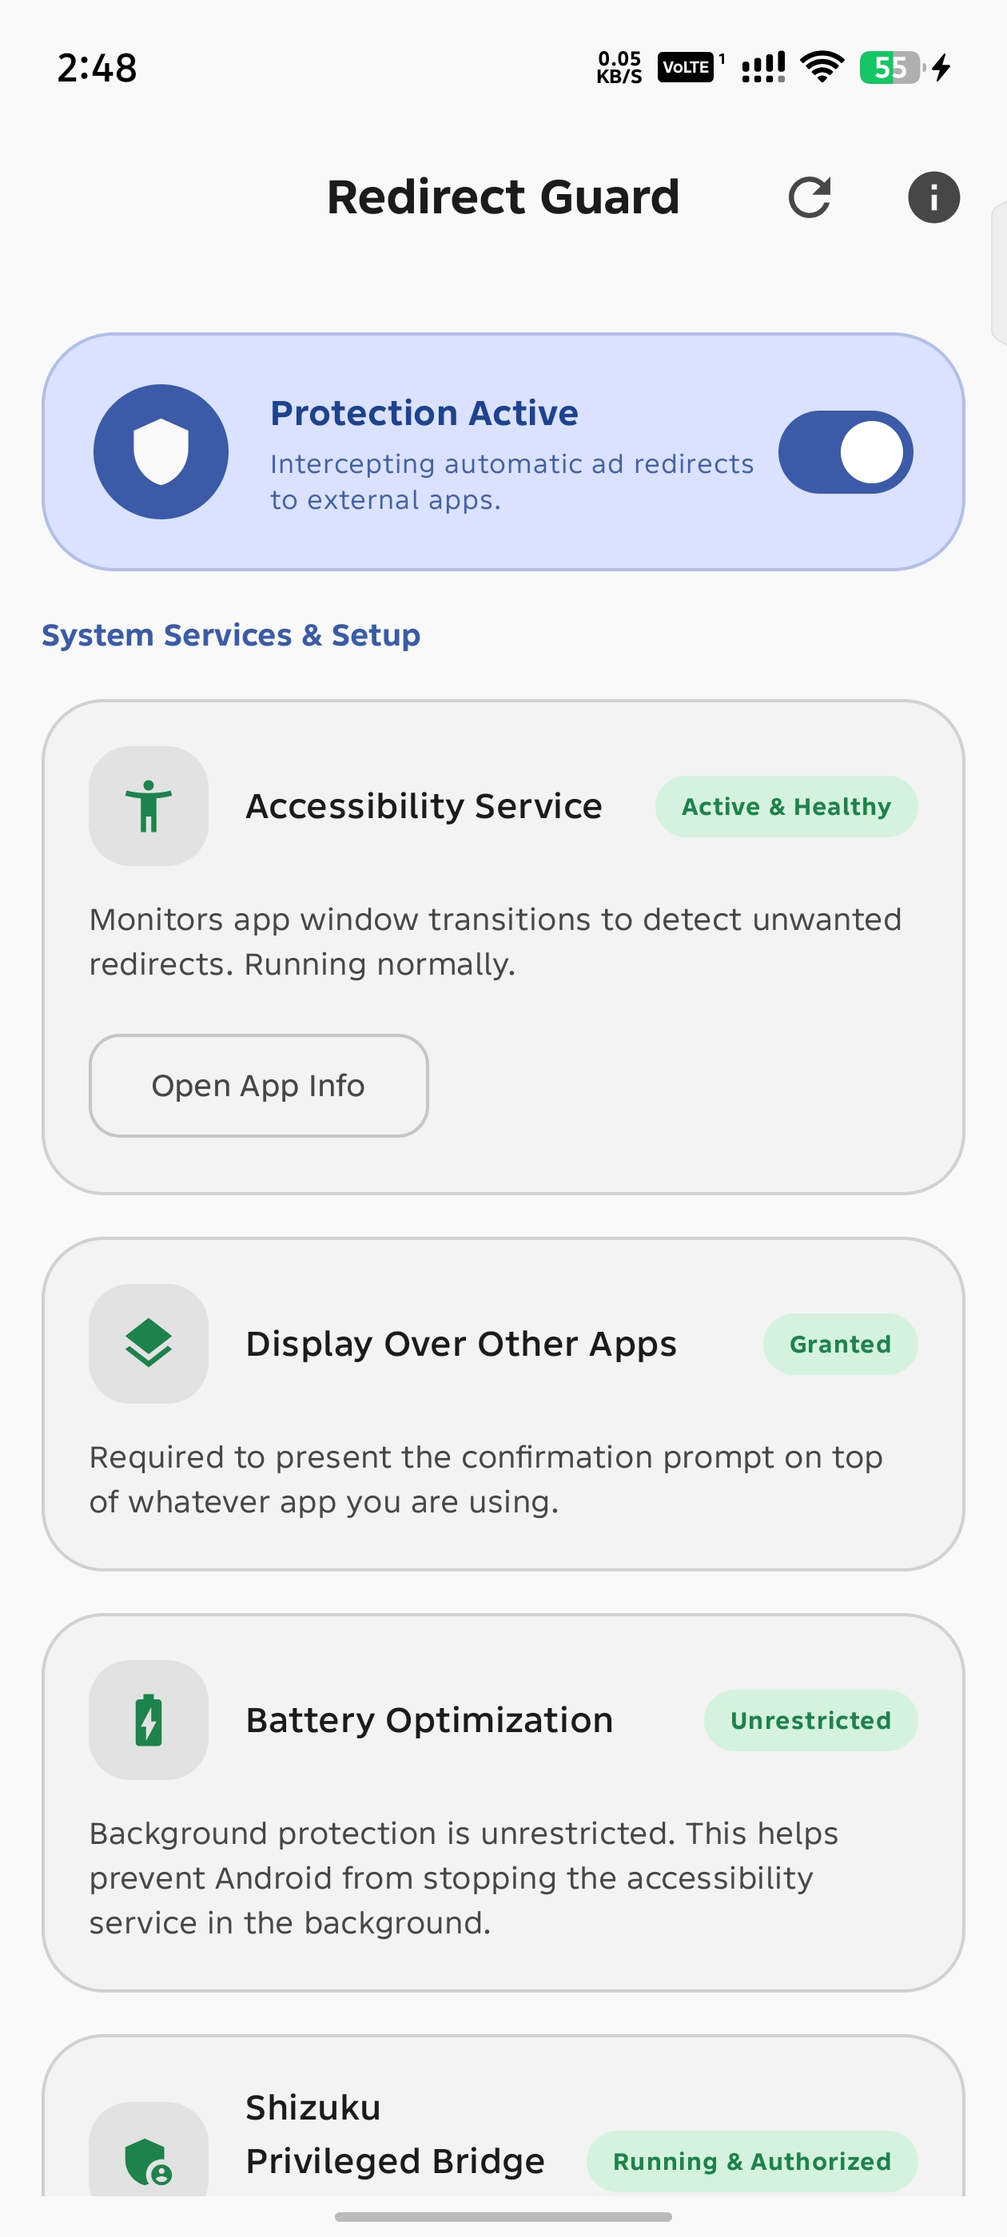
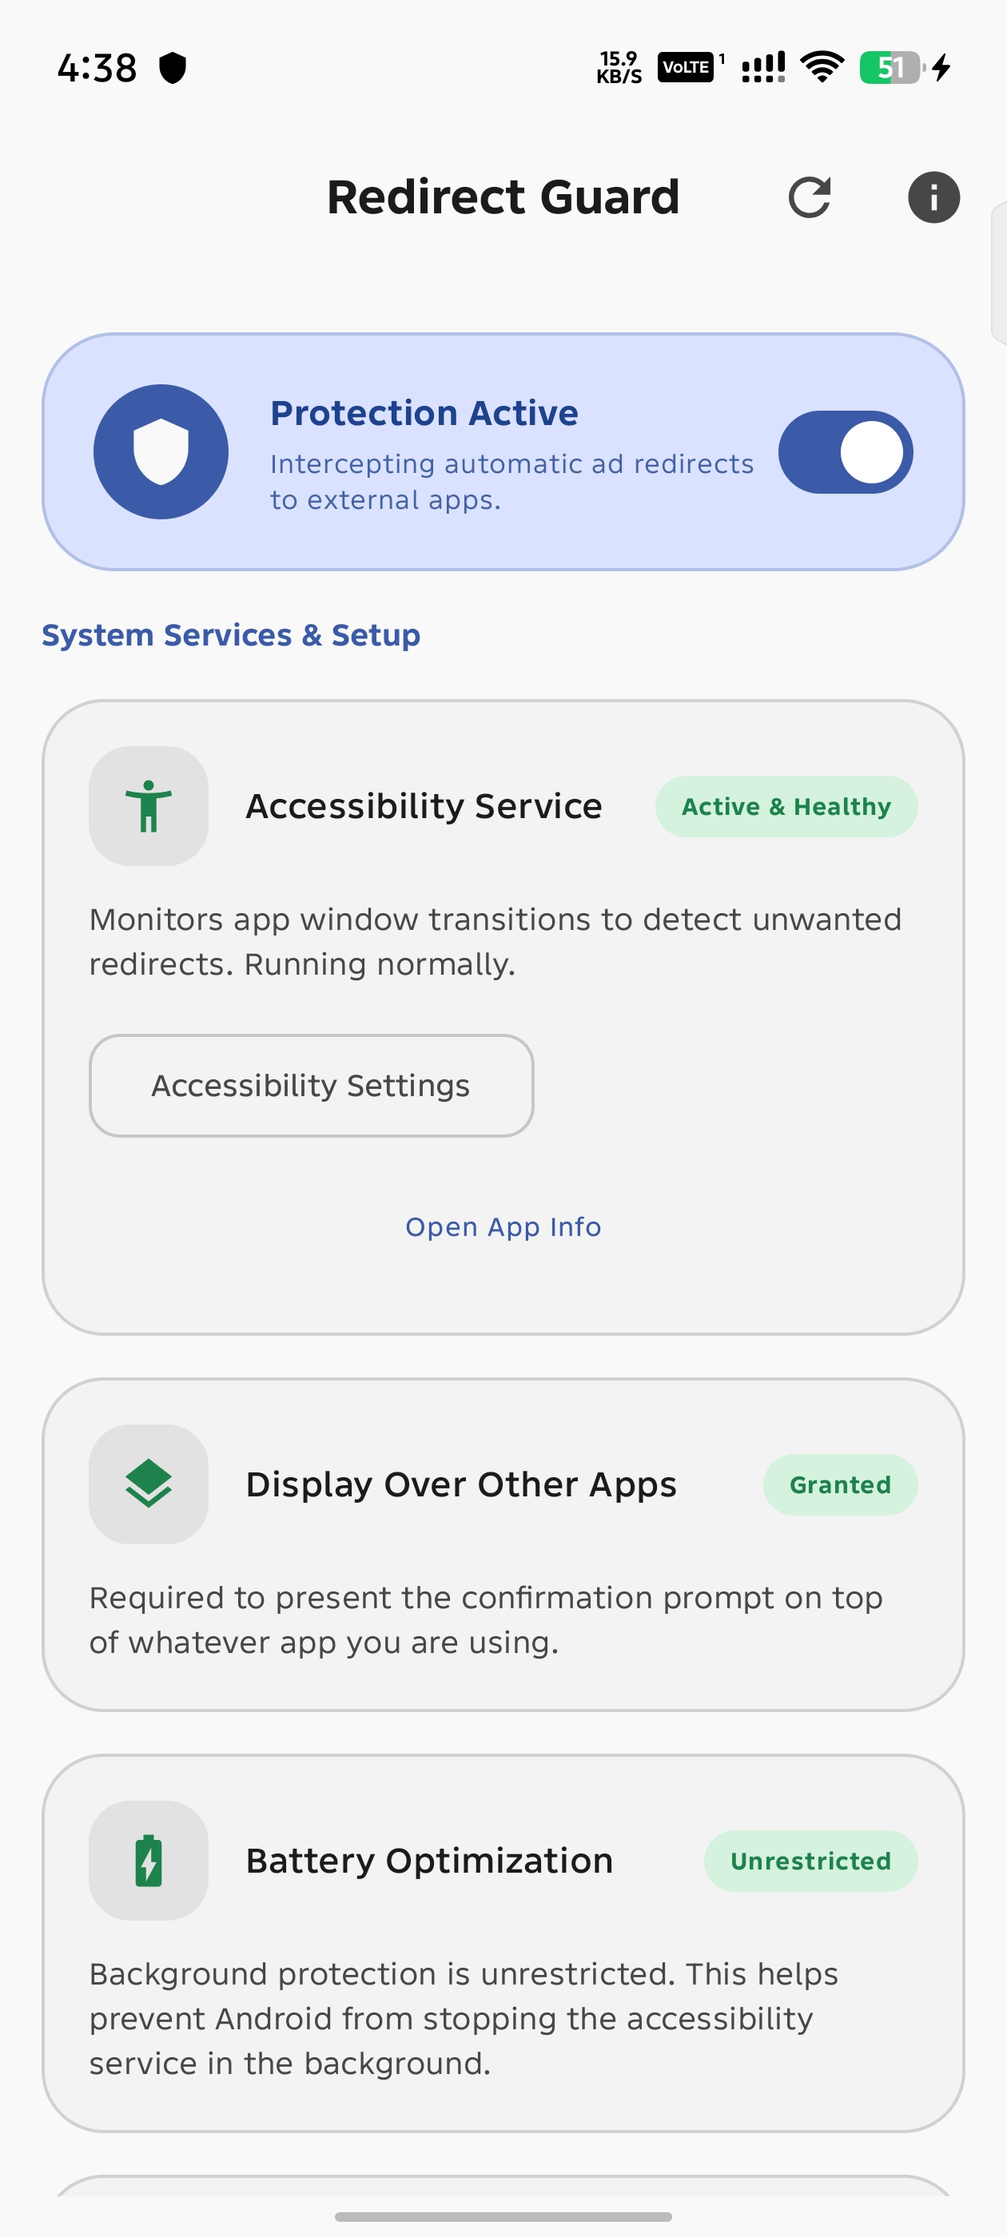
feat: add ability to permanently whitelist special apps and refine accessibility setup [skip ci]
- Add ability to permanently whitelist special apps to prevent interception, guarding, or termination
- Exclude permanently whitelisted applications from guarded app selection and background suppression
- Add manual Accessibility Settings shortcut across all accessibility service status states
- Update Killed / Desynced service card to recommend force stop before re-enabling
- Enhance Shizuku accessibility service enablement to cleanly re-bind desynced services
- Update documentation in README and RELEASE notes with accurate health checker descriptions

diff --git a/app/src/main/java/com/rdevzph/redirectguard/ui/MainScreen.kt b/app/src/main/java/com/rdevzph/redirectguard/ui/MainScreen.kt
@@ -263,8 +263,10 @@ fun MainScreen(
                             statusText = "Active & Healthy",
                             isSuccess = true,
                             description = "Monitors app window transitions to detect unwanted redirects. Running normally.",
-                            secondaryButtonText = "Open App Info",
-                            onSecondaryActionClick = { viewModel.openAppInfoSettings() }
+                            secondaryButtonText = "Accessibility Settings",
+                            onSecondaryActionClick = { viewModel.openAccessibilitySettings() },
+                            tertiaryButtonText = "Open App Info",
+                            onTertiaryActionClick = { viewModel.openAppInfoSettings() }
                         )
                     }
                     AccessibilityHealthState.KILLED_DESYNCED -> {
@@ -275,29 +277,29 @@ fun MainScreen(
                             isSuccess = false,
                             statusBgOverride = StatusInactiveContainer,
                             statusFgOverride = StatusInactive,
-                            description = "Android cached a dead service state after killing the process. Toggling settings alone will not restart it. Use Force Stop via Shizuku or App Info to purge the cache and restore the service.",
-                            actionButtonText = if (hasShizukuPrivilege) "Force Stop & Recover (Shizuku)" else "Open App Info (Force Stop)",
+                            description = "Android stopped the background service process while the setting remained enabled. Force stop the app first to clear the stuck state, then re-open the app and use 1-Tap Enable or Accessibility Settings.",
+                            actionButtonText = if (hasShizukuPrivilege) "Force Stop App (Shizuku)" else "Open App Info (Force Stop)",
                             onActionClick = {
                                 if (hasShizukuPrivilege) {
-                                    viewModel.recoverAccessibilityViaShizuku()
+                                    viewModel.forceStopAppViaShizuku()
                                 } else {
                                     viewModel.openAppInfoSettings()
                                 }
                             },
-                            secondaryButtonText = if (hasShizukuPrivilege) "Open App Info" else "Accessibility Settings",
+                            secondaryButtonText = if (hasShizukuPrivilege) "1-Tap Enable (Shizuku)" else "Accessibility Settings",
                             onSecondaryActionClick = {
                                 if (hasShizukuPrivilege) {
-                                    viewModel.openAppInfoSettings()
+                                    viewModel.enableAccessibilityViaShizuku()
                                 } else {
                                     viewModel.openAccessibilitySettings()
                                 }
                             },
-                            tertiaryButtonText = if (hasShizukuPrivilege) "Force Stop App (Shizuku)" else if (isShizukuRunning) "Authorize Shizuku for Force Stop Recovery" else null,
+                            tertiaryButtonText = if (hasShizukuPrivilege) "Accessibility Settings" else "Open App Info",
                             onTertiaryActionClick = {
                                 if (hasShizukuPrivilege) {
-                                    viewModel.forceStopAppViaShizuku()
-                                } else if (isShizukuRunning) {
-                                    viewModel.requestShizukuPermission()
+                                    viewModel.openAccessibilitySettings()
+                                } else {
+                                    viewModel.openAppInfoSettings()
                                 }
                             }
                         )
@@ -317,8 +319,16 @@ fun MainScreen(
                                     viewModel.openAccessibilitySettings()
                                 }
                             },
-                            secondaryButtonText = "Open App Info",
-                            onSecondaryActionClick = { viewModel.openAppInfoSettings() }
+                            secondaryButtonText = if (hasShizukuPrivilege) "Accessibility Settings" else "Open App Info",
+                            onSecondaryActionClick = {
+                                if (hasShizukuPrivilege) {
+                                    viewModel.openAccessibilitySettings()
+                                } else {
+                                    viewModel.openAppInfoSettings()
+                                }
+                            },
+                            tertiaryButtonText = if (hasShizukuPrivilege) "Open App Info" else null,
+                            onTertiaryActionClick = { viewModel.openAppInfoSettings() }
                         )
                     }
                 }

diff --git a/app/src/main/java/com/rdevzph/redirectguard/shizuku/ShizukuHelper.kt b/app/src/main/java/com/rdevzph/redirectguard/shizuku/ShizukuHelper.kt
@@ -137,51 +137,7 @@ class ShizukuHelper(private val context: Context) {
     }
 
     /**
-     * Completely recovers the accessibility service by:
-     * 1. Clearing our entry from enabled_accessibility_services.
-     * 2. Force stopping the app via `am force-stop` to purge Android's cached dead binder.
-     * 3. Waiting 1 second for system server cleanup.
-     * 4. Re-enabling the service entry in secure settings.
-     * 5. Relaunching the app.
-     */
-    fun forceStopAndRecoverAccessibility(componentName: String): Boolean {
-        if (!_isPermissionGranted.value) return false
-        return try {
-            val pkg = context.packageName
-            val (_, currentServices) = executeCommand(
-                arrayOf("settings", "get", "secure", "enabled_accessibility_services")
-            )
-            val cleaned = currentServices.trim().split(":")
-                .filter { it.isNotBlank() && !it.contains(pkg) }
-                .joinToString(":")
-            val disableVal = if (cleaned.isBlank() || cleaned == "null") "null" else cleaned
-            val reEnabled = if (cleaned.isBlank() || cleaned == "null") componentName else "$cleaned:$componentName"
-
-            val script = "settings put secure enabled_accessibility_services \"$disableVal\"\n" +
-                    "am force-stop \"$pkg\"\n" +
-                    "sleep 1\n" +
-                    "settings put secure enabled_accessibility_services \"$reEnabled\"\n" +
-                    "settings put secure accessibility_enabled 1\n" +
-                    "sleep 1\n" +
-                    "am start -n \"$pkg/$pkg.MainActivity\"\n"
-
-            val method = Shizuku::class.java.getDeclaredMethod(
-                "newProcess",
-                Array<String>::class.java,
-                Array<String>::class.java,
-                String::class.java
-            )
-            method.isAccessible = true
-            method.invoke(null, arrayOf("sh", "-c", script), null, null)
-            true
-        } catch (e: Exception) {
-            Log.e(TAG, "Error force stopping and recovering via Shizuku", e)
-            false
-        }
-    }
-
-    /**
-     * Enables the accessibility service via Shizuku cleanly without force stopping the app.
+     * Enables the accessibility service via Shizuku cleanly.
      */
     fun enableAccessibilityService(componentName: String): Boolean {
         if (!_isPermissionGranted.value) return false
@@ -190,11 +146,14 @@ class ShizukuHelper(private val context: Context) {
                 arrayOf("settings", "get", "secure", "enabled_accessibility_services")
             )
             val trimmed = currentServices.trim()
-            val list = trimmed.split(":").filter { it.isNotBlank() && it != "null" }.toMutableList()
-            if (!list.contains(componentName)) {
-                list.add(componentName)
+            val list = trimmed.split(":").filter { it.isNotBlank() && it != "null" }
+            val cleaned = list.filter { !it.contains(context.packageName) }
+            if (list.any { it.contains(context.packageName) }) {
+                executeCommand(
+                    arrayOf("settings", "put", "secure", "enabled_accessibility_services", cleaned.joinToString(":").ifEmpty { "null" })
+                )
             }
-            val newServices = list.joinToString(":")
+            val newServices = (cleaned + componentName).joinToString(":")
             val (exitCode, _) = executeCommand(
                 arrayOf("settings", "put", "secure", "enabled_accessibility_services", newServices)
             )
@@ -233,6 +192,10 @@ class ShizukuHelper(private val context: Context) {
      */
     fun forceStopPackage(packageName: String): Boolean {
         if (!_isPermissionGranted.value) return false
+        if (packageName == "com.rdevzph.fpsmeter") {
+            Log.w(TAG, "Prevented force-stop of whitelisted app: $packageName")
+            return false
+        }
         return try {
             val (exitCode, _) = executeCommand(arrayOf("am", "force-stop", packageName))
             exitCode == 0
@@ -243,7 +206,7 @@ class ShizukuHelper(private val context: Context) {
     }
 
     /**
-     * Force stops this application using Shizuku shell to clear bad states if needed.
+     * Force stops this application using Shizuku shell to clear stuck accessibility states.
      */
     fun forceStopApp(): Boolean {
         return forceStopPackage(context.packageName)

diff --git a/app/src/main/java/com/rdevzph/redirectguard/data/PreferencesManager.kt b/app/src/main/java/com/rdevzph/redirectguard/data/PreferencesManager.kt
@@ -89,6 +89,7 @@ class PreferencesManager(private val context: Context) {
     }
 
     fun setPackageGuarded(packageName: String, guarded: Boolean) {
+        if (isPermanentWhitelisted(packageName)) return
         val updated = _guardedPackages.value.toMutableSet()
         if (guarded) {
             updated.add(packageName)
@@ -100,6 +101,16 @@ class PreferencesManager(private val context: Context) {
         com.rdevzph.redirectguard.notification.NotificationHelper.updateStatusNotification(context)
     }
 
+    fun isPackageWhitelisted(packageName: String?): Boolean {
+        if (packageName.isNullOrBlank()) return false
+        return packageName in PERMANENT_WHITELISTED_PACKAGES || _whitelistedSourcePackages.value.contains(packageName)
+    }
+
+    fun isPermanentWhitelisted(packageName: String?): Boolean {
+        if (packageName.isNullOrBlank()) return false
+        return packageName in PERMANENT_WHITELISTED_PACKAGES
+    }
+
     fun addWhitelistedSource(packageName: String) {
         val updated = _whitelistedSourcePackages.value.toMutableSet()
         updated.add(packageName)
@@ -108,6 +119,7 @@ class PreferencesManager(private val context: Context) {
     }
 
     fun removeWhitelistedSource(packageName: String) {
+        if (isPermanentWhitelisted(packageName)) return
         val updated = _whitelistedSourcePackages.value.toMutableSet()
         updated.remove(packageName)
         prefs.edit().putStringSet(KEY_WHITELISTED_PACKAGES, updated).apply()
@@ -154,10 +166,13 @@ class PreferencesManager(private val context: Context) {
 
     private fun getSavedGuardedPackages(): Set<String> {
         val saved = prefs.getStringSet(KEY_GUARDED_PACKAGES, null)
-        val defaultSet = GuardedApp.DEFAULT_SHOPPING_PRESETS.map { it.packageName }.toSet()
+        val defaultSet = GuardedApp.DEFAULT_SHOPPING_PRESETS
+            .filter { it.packageName != PERMANENT_WHITELISTED_PACKAGE }
+            .map { it.packageName }
+            .toSet()
         if (saved != null) {
             // Automatically include built-in presets so new preset additions take effect
-            return saved + defaultSet
+            return (saved + defaultSet).filter { it != PERMANENT_WHITELISTED_PACKAGE }.toSet()
         }
         prefs.edit().putStringSet(KEY_GUARDED_PACKAGES, defaultSet).apply()
         return defaultSet
@@ -229,6 +244,9 @@ class PreferencesManager(private val context: Context) {
     }
 
     companion object {
+        const val PERMANENT_WHITELISTED_PACKAGE = "com.rdevzph.fpsmeter"
+        val PERMANENT_WHITELISTED_PACKAGES = setOf(PERMANENT_WHITELISTED_PACKAGE)
+
         private const val PREFS_NAME = "redirect_guard_prefs"
         private const val KEY_GUARD_ENABLED = "guard_enabled"
         private const val KEY_INTERCEPTION_MODE = "interception_mode"

diff --git a/app/src/main/java/com/rdevzph/redirectguard/ui/MainViewModel.kt b/app/src/main/java/com/rdevzph/redirectguard/ui/MainViewModel.kt
@@ -11,6 +11,7 @@ import android.provider.Settings
 import androidx.lifecycle.AndroidViewModel
 import androidx.lifecycle.viewModelScope
 import com.rdevzph.redirectguard.RedirectGuardApplication
+import com.rdevzph.redirectguard.data.PreferencesManager
 import com.rdevzph.redirectguard.model.GuardedApp
 import com.rdevzph.redirectguard.model.InterceptionMode
 import com.rdevzph.redirectguard.model.RedirectRecord
@@ -114,6 +115,7 @@ class MainViewModel(application: Application) : AndroidViewModel(application) {
     }
 
     fun togglePackageGuarded(packageName: String, guarded: Boolean) {
+        if (packageName == PreferencesManager.PERMANENT_WHITELISTED_PACKAGE) return
         prefs.setPackageGuarded(packageName, guarded)
     }
 
@@ -159,16 +161,6 @@ class MainViewModel(application: Application) : AndroidViewModel(application) {
         val success = shizuku.grantOverlayPermission()
         _canDrawOverlays.value = checkCanDrawOverlays()
         return success
-    }
-
-    fun recoverAccessibilityViaShizuku() {
-        viewModelScope.launch(Dispatchers.IO) {
-            val component = RedirectGuardAccessibilityService.getServiceComponentName(getApplication())
-            shizuku.forceStopAndRecoverAccessibility(component)
-            withContext(Dispatchers.Main) {
-                refreshStatus()
-            }
-        }
     }
 
     fun enableAccessibilityViaShizuku() {
@@ -326,13 +318,17 @@ class MainViewModel(application: Application) : AndroidViewModel(application) {
                 val pm = getApplication<Application>().packageManager
                 val installed = pm.getInstalledApplications(PackageManager.GET_META_DATA)
                 installed.mapNotNull { appInfo ->
-                    val isSystem = (appInfo.flags and ApplicationInfo.FLAG_SYSTEM) != 0
-                    val label = pm.getApplicationLabel(appInfo).toString()
-                    InstalledAppItem(
-                        packageName = appInfo.packageName,
-                        appName = label,
-                        isSystemApp = isSystem
-                    )
+                    if (appInfo.packageName == PreferencesManager.PERMANENT_WHITELISTED_PACKAGE) {
+                        null
+                    } else {
+                        val isSystem = (appInfo.flags and ApplicationInfo.FLAG_SYSTEM) != 0
+                        val label = pm.getApplicationLabel(appInfo).toString()
+                        InstalledAppItem(
+                            packageName = appInfo.packageName,
+                            appName = label,
+                            isSystemApp = isSystem
+                        )
+                    }
                 }.sortedBy { it.appName.lowercase() }
             }
             _installedApps.value = apps

diff --git a/app/src/main/java/com/rdevzph/redirectguard/service/RedirectGuardAccessibilityService.kt b/app/src/main/java/com/rdevzph/redirectguard/service/RedirectGuardAccessibilityService.kt
@@ -79,7 +79,7 @@ class RedirectGuardAccessibilityService : AccessibilityService() {
         if (activeGuardedTargetPackage == packageName && now < activeGuardedTargetUntil) {
             val isExplicitlyAllowed = allowedTargetPackage == packageName &&
                     (now - allowedTargetTimestamp) < ALLOW_WINDOW_MS
-            if (!isExplicitlyAllowed) {
+            if (!isExplicitlyAllowed && !prefs.isPackageWhitelisted(packageName)) {
                 Log.w(TAG, "Active suppression: killing escape attempt by $packageName")
                 RedirectGuardApplication.instance.shizukuHelper.forceStopPackage(packageName)
                 if (lastActiveSourcePackage != null) {
@@ -99,10 +99,10 @@ class RedirectGuardAccessibilityService : AccessibilityService() {
 
         // Check if transition to a new external package
         if (lastActiveSourcePackage != null && lastActiveSourcePackage != packageName) {
-            val isGuarded = prefs.guardAllExternalApps.value ||
-                    prefs.guardedPackages.value.contains(packageName)
+            val isGuarded = !prefs.isPackageWhitelisted(packageName) &&
+                    (prefs.guardAllExternalApps.value || prefs.guardedPackages.value.contains(packageName))
 
-            val isWhitelisted = prefs.whitelistedSourcePackages.value.contains(lastActiveSourcePackage)
+            val isWhitelisted = prefs.isPackageWhitelisted(lastActiveSourcePackage)
             val isExplicitlyAllowed = allowedTargetPackage == packageName &&
                     (now - allowedTargetTimestamp) < ALLOW_WINDOW_MS
 
@@ -150,6 +150,11 @@ class RedirectGuardAccessibilityService : AccessibilityService() {
         targetPkg: String,
         prefs: com.rdevzph.redirectguard.data.PreferencesManager
     ) {
+        if (prefs.isPackageWhitelisted(targetPkg)) {
+            Log.d(TAG, "Target $targetPkg is whitelisted, skipping interception")
+            return
+        }
+
         val sourceName = getAppNameFromPackage(sourcePkg)
         val targetName = getAppNameFromPackage(targetPkg)
 

diff --git a/RELEASE.md b/RELEASE.md
@@ -11,7 +11,7 @@
 - **Smart Launcher Whitelist**: Added automatic whitelisting for home screen launchers and system utilities to prevent false positives when launching apps normally.
 - **Guarded App Configuration**: Added configurable presets for shopping apps alongside an option to guard all external apps.
 - **Activity Log**: Added a log that records intercepted redirect events with timestamps, source app names, and target app names.
-- **Accessibility Health Monitoring**: Added automated detection for accessibility service status with one-tap recovery options.
+- **Accessibility Health Monitoring**: Added automated detection for killed or desynced accessibility service states, with options to force stop the app to clear stuck states, enable the service with one tap through Shizuku, and open system accessibility settings directly.
 
 ### Features
 - Deep link and app redirect interception using Android Accessibility Service
@@ -22,6 +22,7 @@
 - Interactive confirmation dialog with safety timer
 - In-app activity log showing recent redirect events
 - Shizuku integration for one-tap permission setup and app termination
+- Accessibility service health checker with one-tap enablement, stuck state clearing, and direct settings access
 - Modern Material 3 user interface with dynamic theme support
 
 ### Requirements

diff --git a/README.md b/README.md
@@ -40,7 +40,7 @@ Redirect Guard acts as a safety shield between your apps. When an ad, webpage, o
 - **Smart Launcher and System App Whitelist**: Distinguishes between accidental redirects and intentional user actions. Launching apps from your home screen, app drawer, recent apps screen, or system utilities is never blocked.
 - **Guarded App Selection**: Guard specific shopping and external apps using built-in presets, or turn on full protection to guard against redirects to any external application.
 - **Activity Log**: Keep track of intercepted redirects, showing timestamps, source apps, target apps, and actions taken.
-- **Accessibility Service Health Checker**: Automatically detects if Android has killed the background accessibility service and offers one-tap recovery through Shizuku or the App Info screen.
+- **Accessibility Service Health Checker**: Automatically detects if Android has stopped or desynced the background accessibility service, allowing you to force stop the app to clear stuck states, enable it with one tap through Shizuku, or open system accessibility settings directly.
 
 ## How It Works
 
